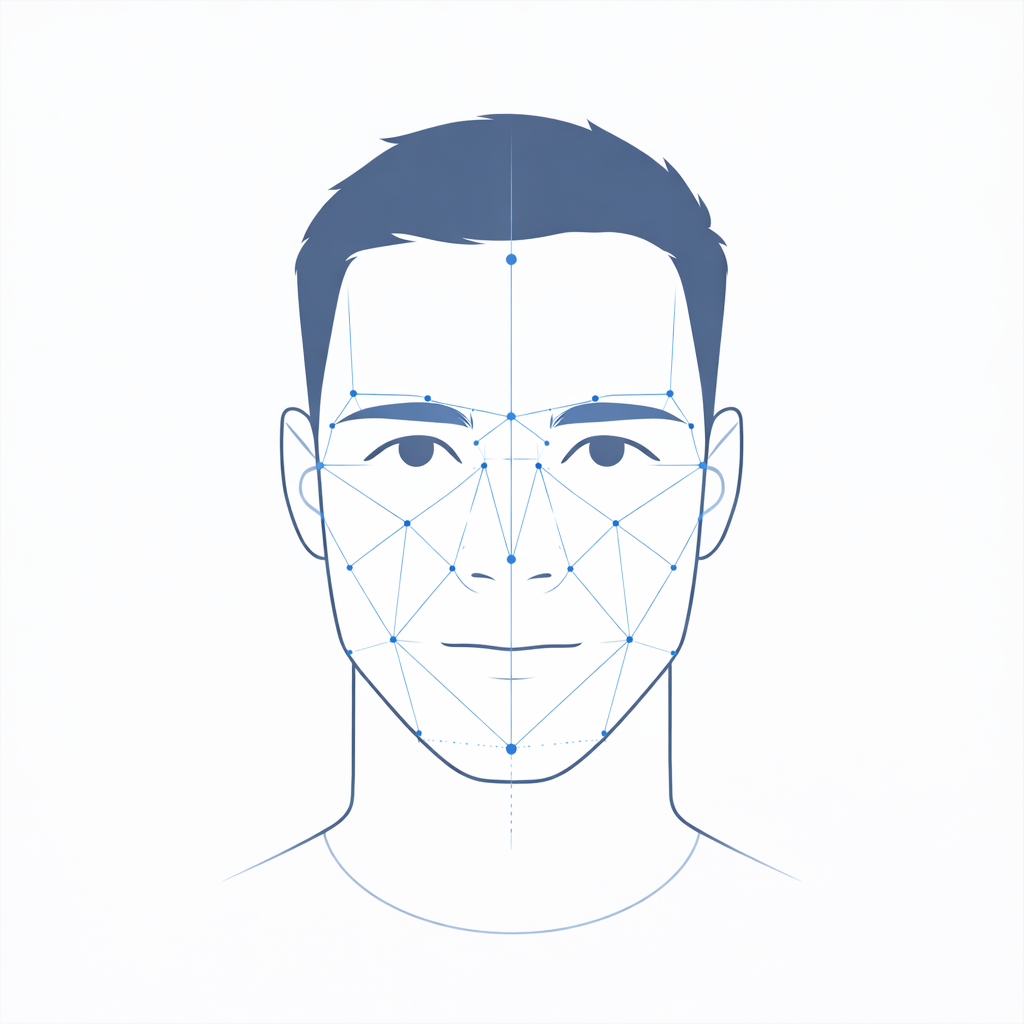
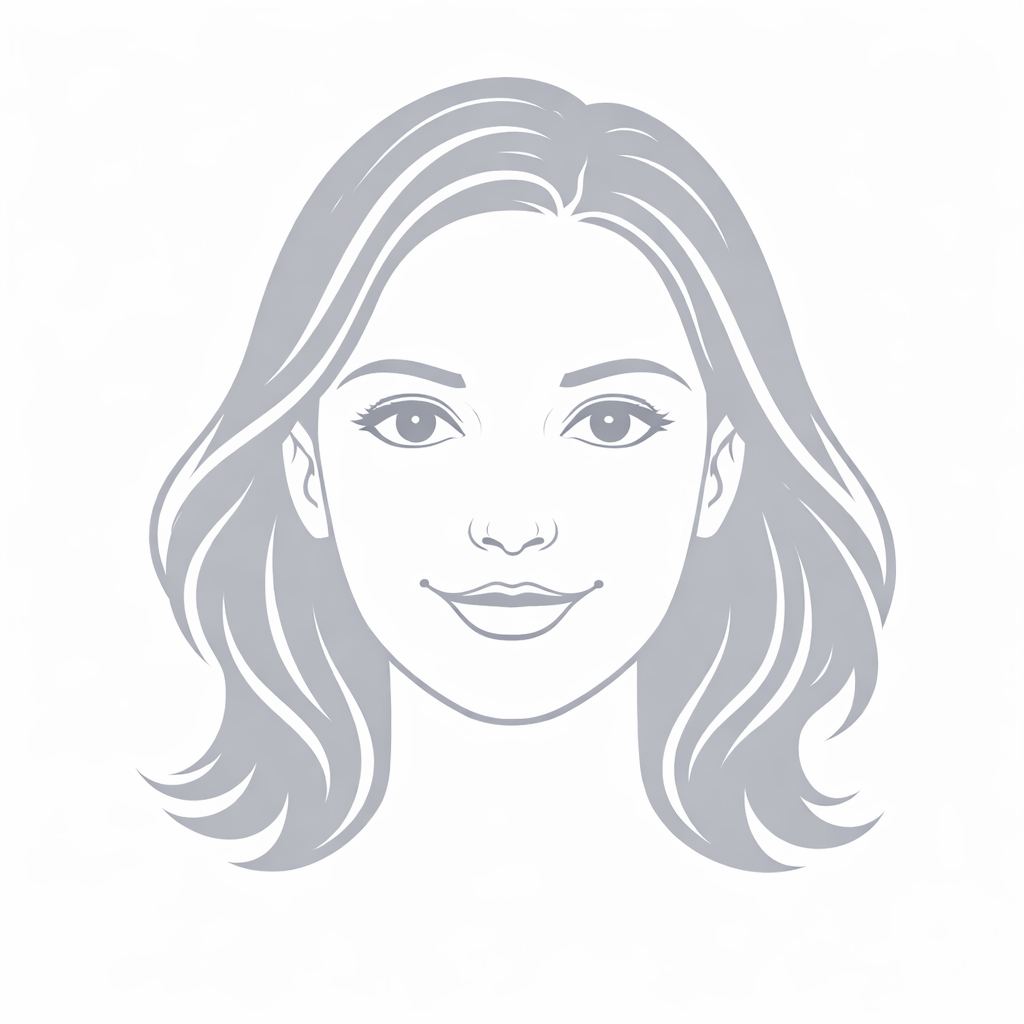
замена изображений и смена поля на возраст

diff --git a/src/components/LoadingScreen.jsx b/src/components/LoadingScreen.jsx
@@ -18,6 +18,7 @@ const SCAN_PHRASES = [
 function LoadingScreen({ text = 'Загрузка...', variant = 'scan', onComplete }) {
   const [phraseIndex, setPhraseIndex] = useState(0)
   const [progress, setProgress] = useState(0)
+  const [faceIndex, setFaceIndex] = useState(0)
   const completedRef = useRef(false)
 
   useEffect(() => {
@@ -34,6 +35,14 @@ function LoadingScreen({ text = 'Загрузка...', variant = 'scan', onCompl
       setProgress((p) => (p >= 100 ? 100 : Math.min(100, p + Math.random() * 6 + 3)))
     }, 350)
     return () => clearInterval(progressInterval)
+  }, [variant])
+
+  useEffect(() => {
+    if (variant !== 'scan') return
+    const facesInterval = setInterval(() => {
+      setFaceIndex((i) => (i + 1) % 2)
+    }, 1500)
+    return () => clearInterval(facesInterval)
   }, [variant])
 
   useEffect(() => {
@@ -56,7 +65,18 @@ function LoadingScreen({ text = 'Загрузка...', variant = 'scan', onCompl
     <div className="loading-screen loading-screen--scan" role="status" aria-live="polite" aria-label={SCAN_PHRASES[phraseIndex]}>
       <div className="loading-scan">
         <div className="loading-scan-oval" aria-hidden="true">
-          <img src="/woomen1.png" alt="" className="loading-scan-oval-img" />
+          <div className="loading-scan-faces">
+            <img
+              src="/woomen1.png"
+              alt=""
+              className={`loading-scan-oval-img ${faceIndex === 0 ? 'is-active' : ''}`}
+            />
+            <img
+              src="/men.png"
+              alt=""
+              className={`loading-scan-oval-img ${faceIndex === 1 ? 'is-active' : ''}`}
+            />
+          </div>
           <div className="loading-scan-line" />
           <div className="loading-scan-dots">
             {[...Array(12)].map((_, i) => (

diff --git a/src/components/LoadingScreen.css b/src/components/LoadingScreen.css
@@ -62,6 +62,11 @@
   background: rgba(93, 175, 46, 0.04);
 }
 
+.loading-scan-faces {
+  position: absolute;
+  inset: 0;
+}
+
 .loading-scan-oval-img {
   position: absolute;
   inset: 0;
@@ -70,6 +75,12 @@
   object-fit: cover;
   object-position: center top;
   display: block;
+  opacity: 0;
+  transition: opacity 0.6s ease;
+}
+
+.loading-scan-oval-img.is-active {
+  opacity: 1;
 }
 
 .loading-scan-line {
